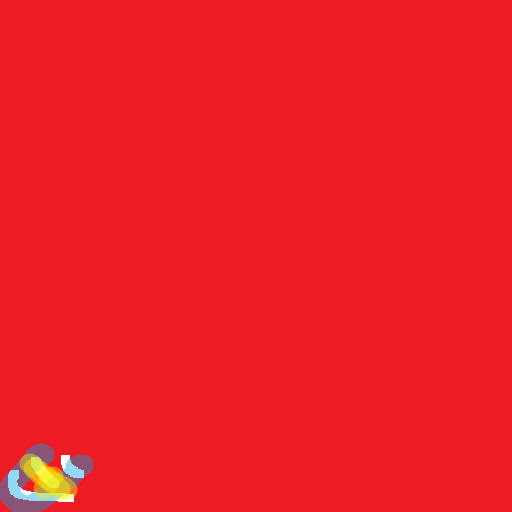
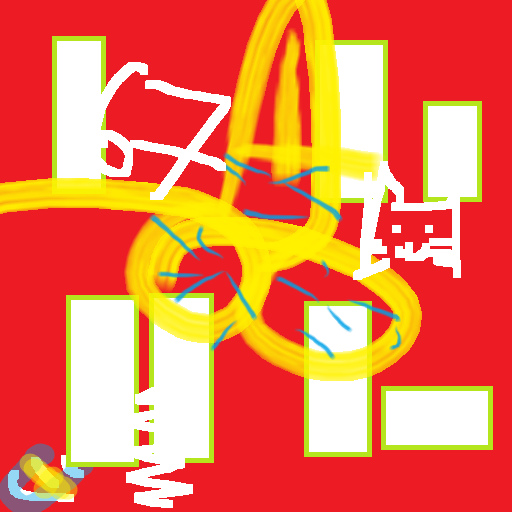
rotating ball of death

diff --git a/Engine.cpp b/Engine.cpp
@@ -107,16 +107,15 @@ void LoadObject(std::string name){
             ss>>tuv.back().x>>tuv.back().y;
         }else if(type=="f"){
             std::string vd;
-            std::cout<<"f";
             while(ss>>vd){
                 std::istringstream vs(vd);
                 std::string ts;
                 std::getline(vs, ts, '/');
                 int posId=std::stoi(ts)-1;
                 std::getline(vs, ts, '/');
-                int norId=std::stoi(ts)-1;
-                std::getline(vs, ts);
                 int uvId=std::stoi(ts)-1;
+                std::getline(vs, ts);
+                int norId=std::stoi(ts)-1;
                 mesh.vertices.push_back({tpos[posId], tnor[norId], tuv[uvId], 1.0f, 1.0f});
                 mesh.indices.emplace_back(mesh.vertices.size()-1);
             }
@@ -268,12 +267,12 @@ int InitEngine(){
     glfwSetCursorPosCallback(window, MouseCallback);
     glEnable(GL_BLEND);
     glEnable(GL_DEPTH_TEST);
-    glEnable(GL_CULL_FACE);
+    /*glEnable(GL_CULL_FACE);
     glCullFace(GL_BACK);
-    glFrontFace(GL_CCW);
+    glFrontFace(GL_CCW);*/
     glBlendFunc(GL_SRC_ALPHA, GL_ONE_MINUS_SRC_ALPHA);
     glUniformMatrix4fv(projLoc, 1, GL_FALSE, glm::value_ptr(projection));
-    glClearColor(0.1f, 0.1f, 0.1f, 1.0f);                                   //bg color
+    glClearColor(0.3f, 0.1f, 0.5f, 1.0f);                                   //bg color
     glActiveTexture(GL_TEXTURE0);
     glBindTexture(GL_TEXTURE_2D, texture.id);
 

diff --git a/main.cpp b/main.cpp
@@ -36,6 +36,33 @@ int main(){
     while(!ShouldClose()){
         DoMovement(camera, window);
         
+
+
+
+
+
+
+                    entities[0].transform=glm::rotate(entities[0].transform, 0.01f, {1.0f, 1.0f, 1.0f});
+
+
+
+
+
+
+
+
+
+
+
+
+
+
+
+
+
+
+
+
         DoDrawing(camera);
     }
     CloseEngine();
